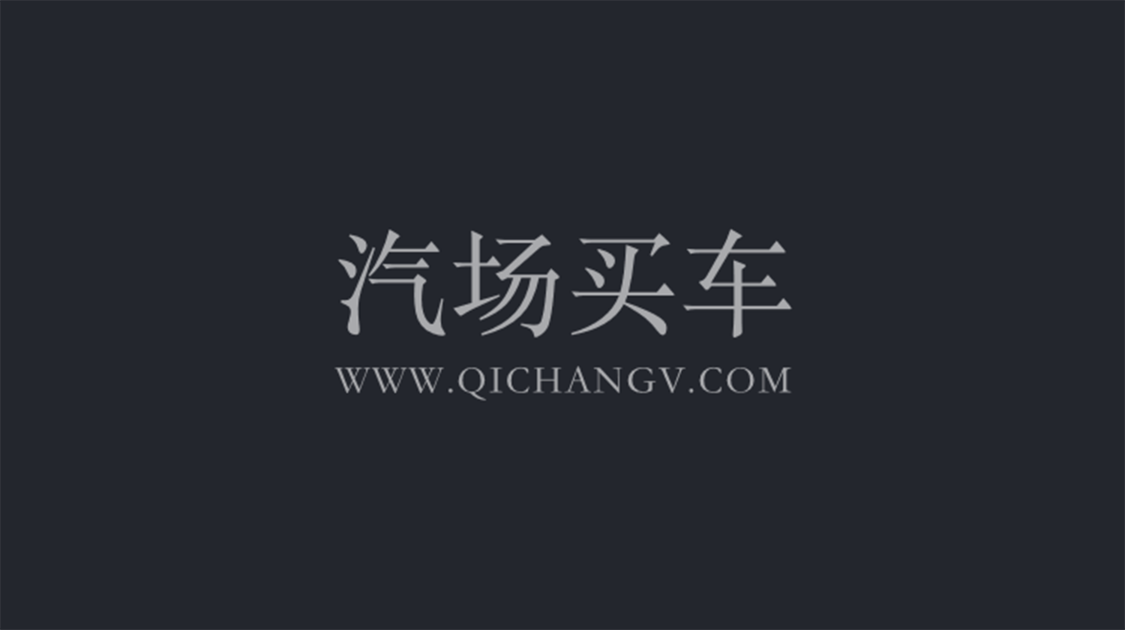
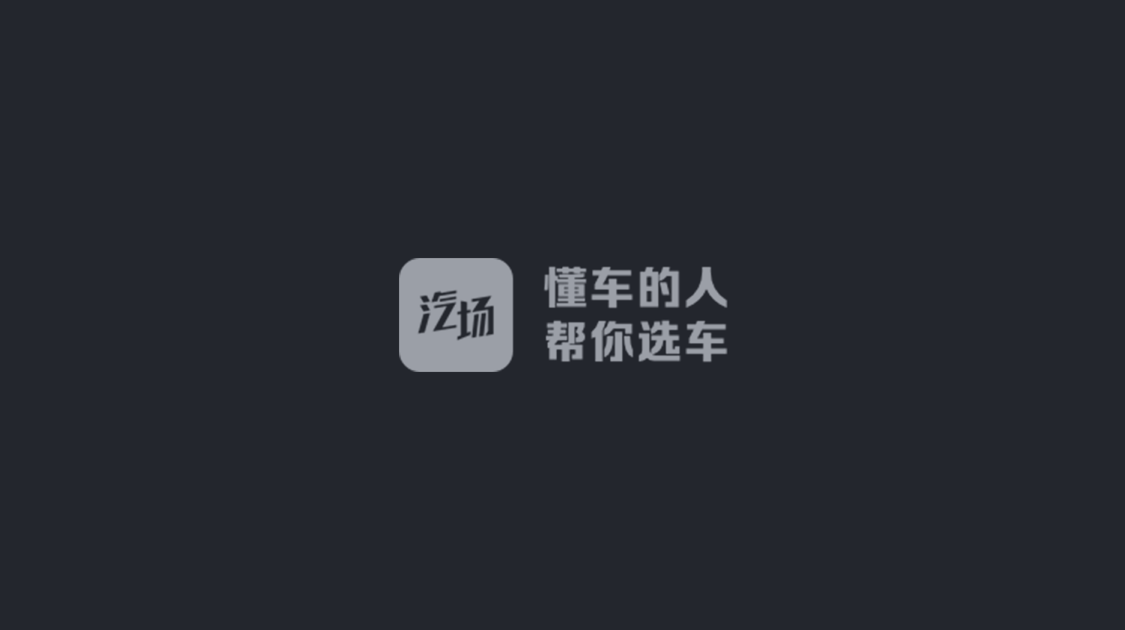
feat: 站位图修改

Changed region(s): [[0.28, 0.3619, 0.7156, 0.6333]]

diff --git a/src/Loading/Loading.tsx b/src/Loading/Loading.tsx
@@ -21,7 +21,7 @@ class Loading extends React.Component<Props> {
       >
         <Image
           style={styles.image}
-          source={require('./assets/qichang_buy_car_logo_loading.gif')}
+          source={require('./assets/qichang_logo_loading.gif')}
         />
       </View>
     );
